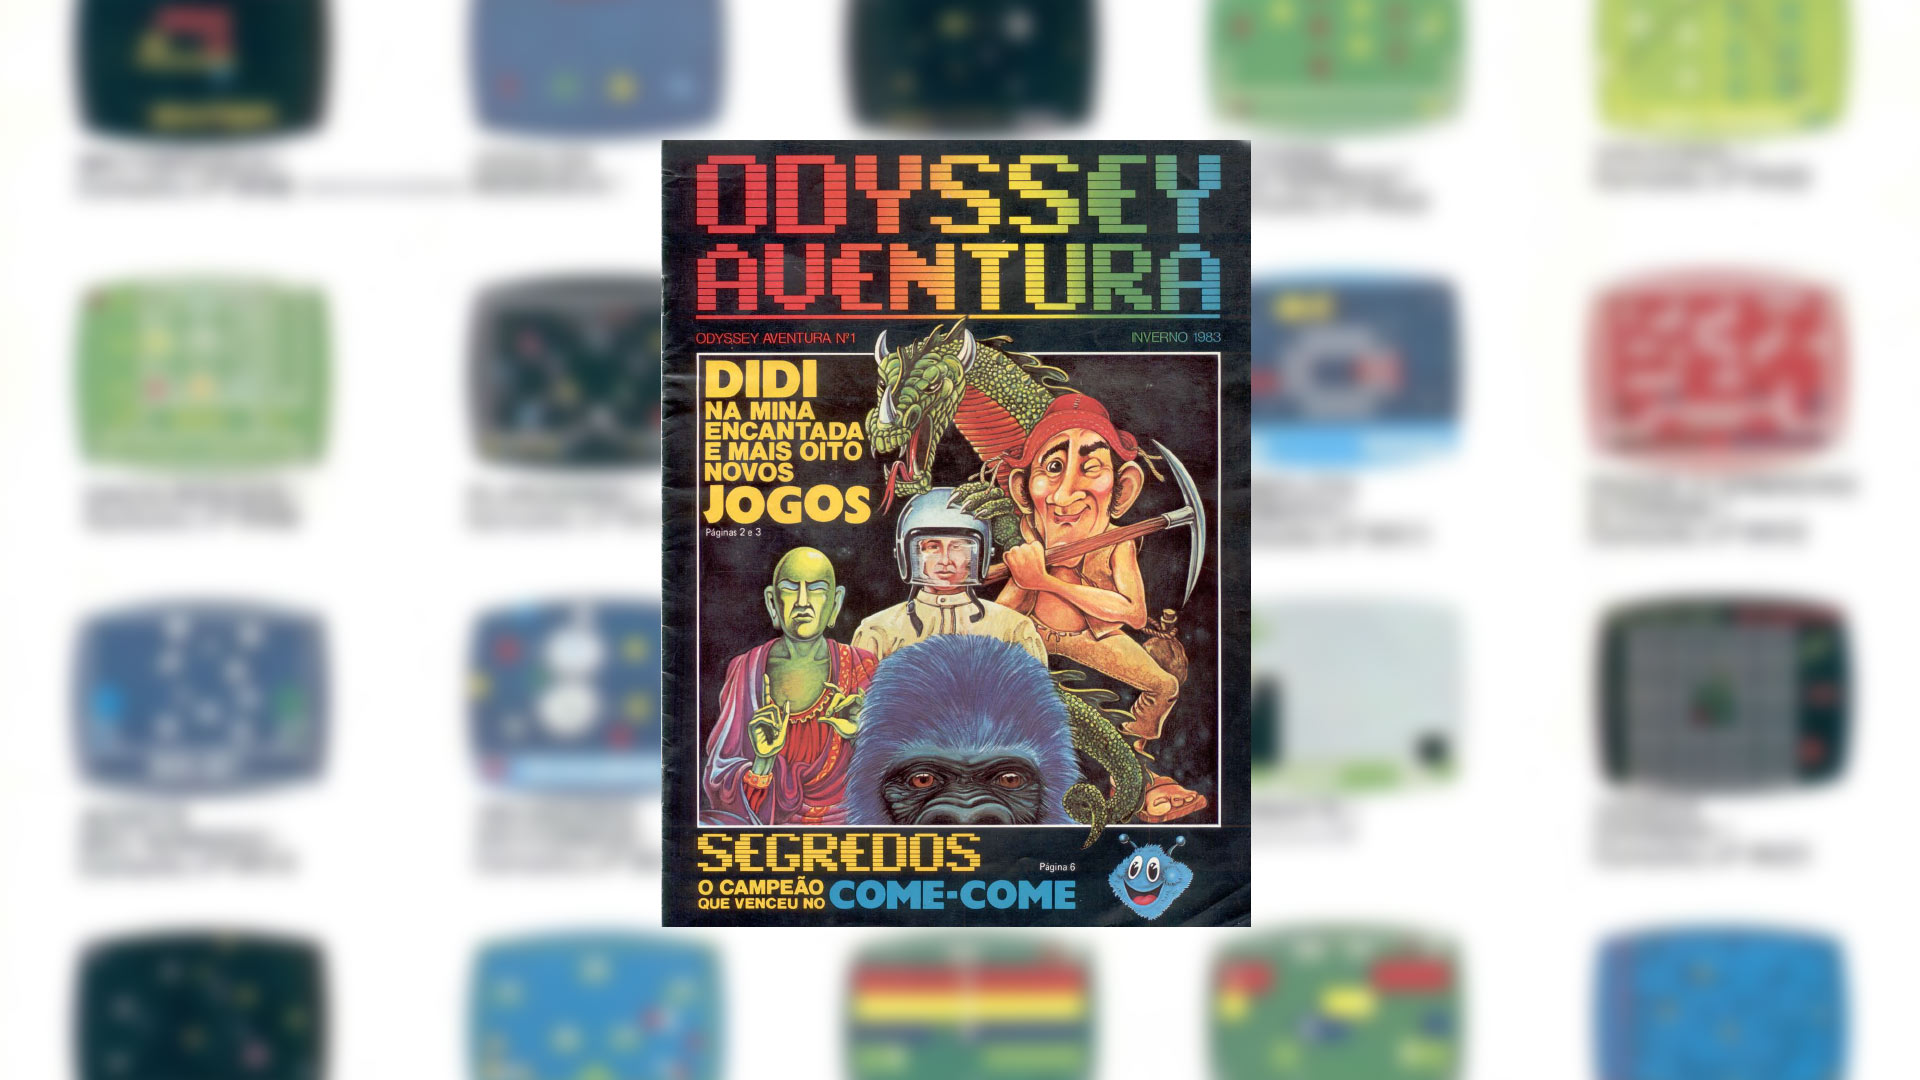
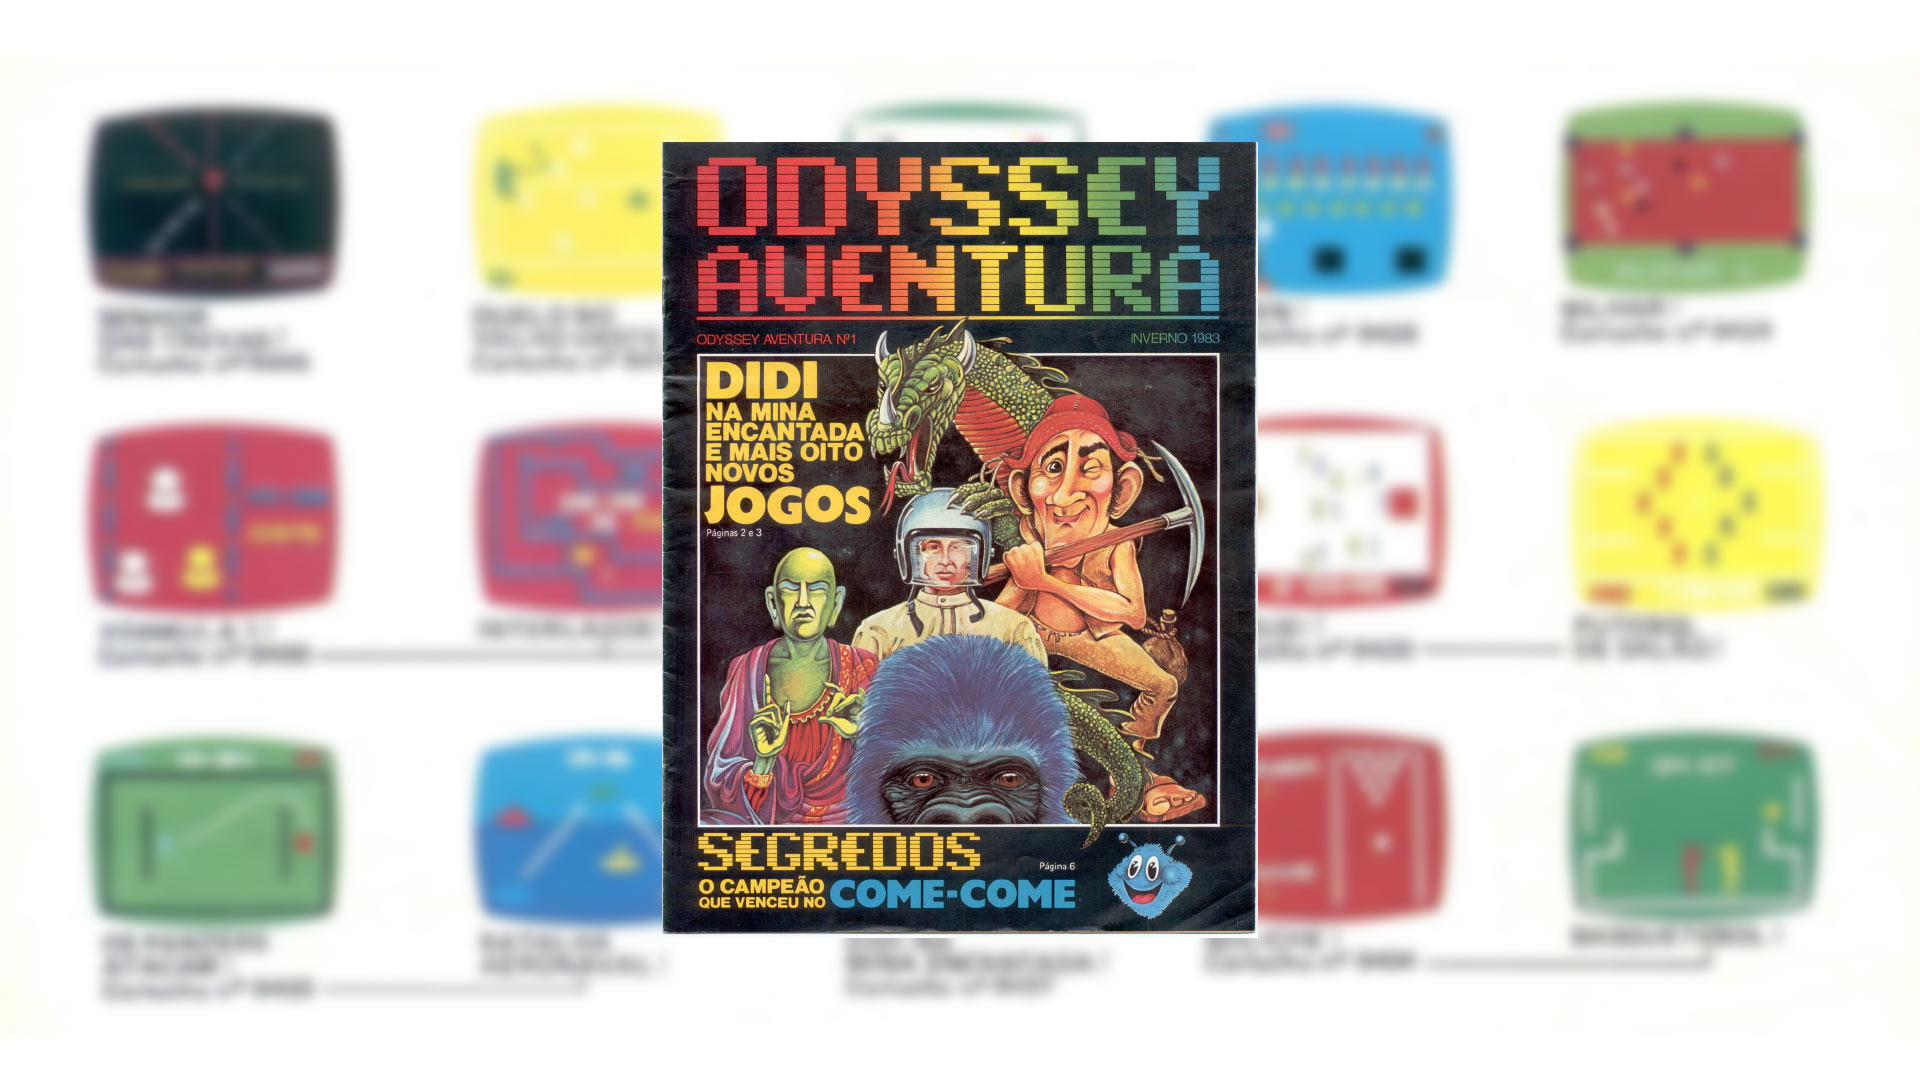
Primeira Imgem do Site (#3)
* Primeira Imgem do Site

Arte Space Invaders

* Ação Games 01

Mais uma revista na madrugada desta quintafeira ao som de QUE QUE ISSO
MEGAMIUN???

* Duas Novas Imagens

Adicionadas Imagens no Site

* Here Comes The Roboto

Font Atualizada para Roboto
Megamiun manja nada de Megaman

diff --git a/index.html b/index.html
@@ -13,6 +13,8 @@
 		<link href="stylesheets/carousel.css" rel="stylesheet" />
 		<link href="stylesheets/hamburgers.css" rel="stylesheet" />
 
+		<link href="https://fonts.googleapis.com/css?family=Roboto" rel="stylesheet">
+		
 		<script src="https://ajax.googleapis.com/ajax/libs/jquery/1.11.0/jquery.min.js" defer></script>
 		<script src="js/carousel.js" defer></script>
 		<script src="js/nav.js" defer></script>

diff --git a/stylesheets/nav.css b/stylesheets/nav.css
@@ -20,9 +20,9 @@ nav.horizontal {
 }
 
 nav.horizontal a {
-	font-family: 'Bebas Neue Regular';
+	font-family: 'Bebas Neue';
 	margin: 0 1.5vw;
-	font-weight: normal;
+	font-weight: bold;
 }
 
 nav.vertical {

diff --git a/stylesheets/main.css b/stylesheets/main.css
@@ -12,7 +12,7 @@
 
 body {
 	margin: 0;
-	font-family: 'DejaVu Sans';
+	font-family: 'Roboto';
 	font-size: 18px;
 }
 

diff --git a/stylesheets/fonts.css b/stylesheets/fonts.css
@@ -26,3 +26,5 @@
 	font-weight: normal;
 	font-style: normal;
 }
+
+
